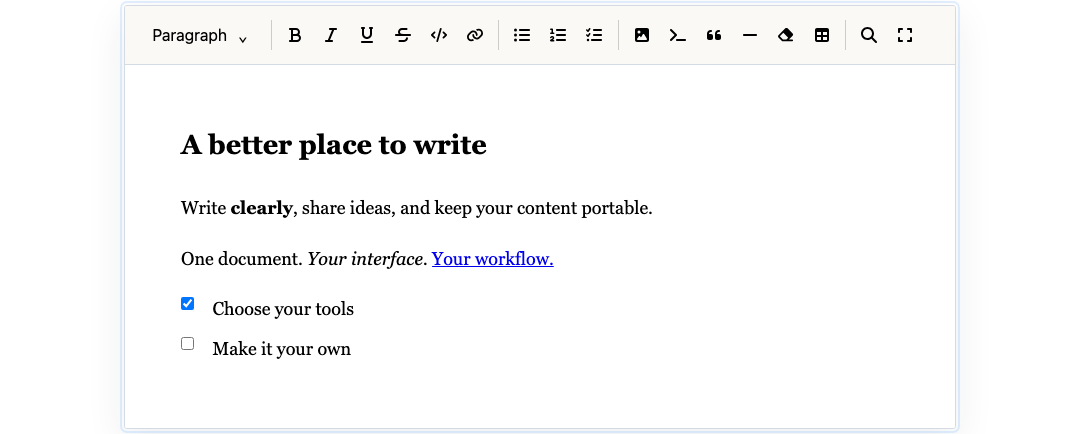
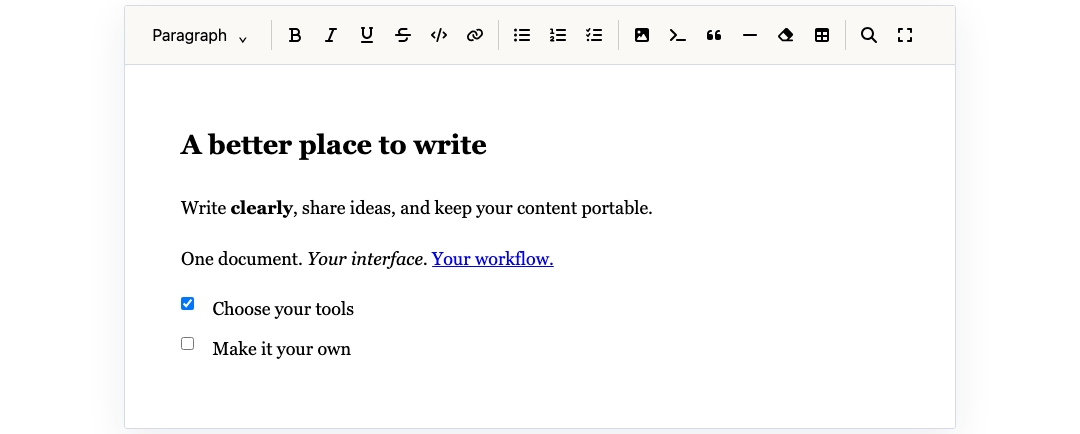
docs: record local showcase verification and final preset captures

Changed region(s): [[0.0917, 0.9885, 0.8861, 1.0], [0.1222, 0.0, 0.8861, 0.03]]

diff --git a/docs/verification/2026-09-16-editor-showcase.md b/docs/verification/2026-09-16-editor-showcase.md
@@ -1,0 +1,54 @@
+# Full local verification: editor shell, dropdowns and showcase
+
+All gates passed on source revision `9c08f48cde1c5d2cb4b176d7337cc0d9662cddc0`. The following evidence
+commit updates documentation, compatibility metadata and four final screenshots;
+it does not change runtime behavior or test configuration.
+
+Commands: `pnpm verify`, `node scripts/build-distribution.mjs`,
+`node scripts/capture-docs.mjs`, `pnpm test:browser` and `pnpm verify:distribution`.
+Everything ran locally. GitHub Actions remains disabled.
+
+| Gate | Result |
+| --- | --- |
+| Package policy, builds, TypeScript and Vue examples | Passed |
+| Unit tests | 406 passed across 66 files; four workers |
+| Full browser matrix | 330 passed, 66 per profile; zero failures/retries/skips |
+| Browser timing | Default 30s tests / 5s assertions; four workers; 263.8 seconds |
+| Distribution | 26 tarballs inspected; every export imported without a DOM; isolated TypeScript consumer passed |
+| Minimal bundle | 34,130 gzip bytes / 51,200 ceiling |
+| Standard bundle | 51,461 gzip bytes / 66,560 ceiling |
+| Optional highlighter | 1,702 minified bytes / 933 gzip bytes; separate import |
+| Gallery | 24 component-only captures, no browser script errors |
+
+Profiles: Chromium desktop, Firefox desktop, WebKit desktop, Pixel 7 Chromium
+emulation and iPhone 15 WebKit emulation. Installed browser versions remain
+Chromium 153.0.8010.12, Firefox 155.0 and WebKit 26.6.
+
+New browser coverage checks shared borders and distinct presets, showcase tool
+configuration, viewport-edge flipping, keyboard dropdown selection/dismissal,
+inline selection positioning and formatting, source-format access, modal focus
+mode and optional highlighting without export changes. Existing editing, source
+drafts, native forms, tables, custom buttons and Vue remount coverage also passed.
+Unit coverage includes safe highlighting, unknown/oversized language fallbacks,
+canonical export/history preservation and teardown.
+
+Visual review covered desktop/mobile showcase, three presets, contextual toolbar,
+code highlighting and dropdown captures. Preset screenshots omit focus outlines
+so their actual frame differences remain visible. Local Markdown file links and
+`git diff --check` passed.
+
+An earlier unit run exceeded startup/test timeouts under machine load. Unit
+parallelism is now bounded at four workers; no test/assertion timeouts were
+increased. The final full sequence above passed on that configuration.
+
+[Machine-readable summary](2026-09-16-editor-showcase.json) includes per-profile counts and the raw
+browser report SHA-256. Local logs: `/tmp/art-complete-*.log`; the replaceable,
+ignored raw report is `test-results/playwright-results.json`.
+
+## Limits and next work
+
+Inline mode is contextual formatting, not Notion-style block editing. Block
+controls/slash insertion are tracked in #74; additional formats/embeds in #75.
+Highlighting is a basic lexer, not a full grammar engine. Physical-device, real
+IME, screen-reader, broad RTL/reduced-motion, performance and public-release
+gates remain open; browser emulation does not replace those checks.

diff --git a/docs/editor-configuration.md b/docs/editor-configuration.md
@@ -6,6 +6,7 @@ Configure the Web Component itself; an attached `<a-rich-text-toolbar>` reads it
 configuration and updates when attributes change.
 
 ```html
+<a-rich-text-shell>
 <a-rich-text-toolbar for="body"></a-rich-text-toolbar>
 <a-rich-text
   id="body"
@@ -16,6 +17,7 @@ configuration and updates when attributes change.
   tools="paragraph heading bold italic underline code link bullet-list ordered-list task-list indent outdent insert-table add-row remove-row add-column remove-column undo redo"
   placeholder="Write something…"
 ></a-rich-text>
+</a-rich-text-shell>
 ```
 
 Import `@arichtext/editor` and call `enableStandardEditing(editor)` to enable the
@@ -197,6 +199,11 @@ connected and the browser must support native modal dialogs.
 
 ## Source editing and recovery
 
+Available formats appear in the toolbar’s **Document format** dropdown. The base
+component supplies the same dropdown when no standard toolbar is registered.
+`views` determines its options; a dirty draft disables switching until resolved.
+See [traditional/inline modes and the dropdown API](editor-modes.md).
+
 Switching views serializes the current canonical ART document and does not
 reimport it. Merely looking at Markdown/plain text therefore cannot strip marks
 or annotations. `format` stays independent of the active `view`.
@@ -239,7 +246,7 @@ Image insertion, editing and optional uploads are available through the
 packages but no bundled toolbar UI.
 Text alignment, font/color/highlight choices would require extending
 the current schema or defining extensions; hiding/showing toolbar tools does not
-add those capabilities. These are follow-up features, not advertised controls.
+add those capabilities. The [reference review and tracked follow-ups](editor-modes.md#reference-review-and-roadmap) detail these gaps and the planned block interaction mode.
 
 ## Automatic links
 

diff --git a/docs/editor-modes.md b/docs/editor-modes.md
@@ -89,6 +89,9 @@ Reviewed 2026-09-16 against the official documentation:
   move/duplicate/delete menus and drag reordering are **not implemented**. ART JSON
   is our schema; it is not interchangeable with Editor.js output JSON.
 
+Optional comments, suggestions and AI packages already exist, but do not have
+bundled toolbar controls; their remaining work stays under issues #9 and #10.
+
 Existing issues #4 (authoring) and #6 (extensions) were broad umbrellas; neither
 specified a complete Notion-style interaction mode. Dedicated follow-up tickets
 track block UX and additional formatting, linked below. These are planned work,

diff --git a/docs/remaining-work.md b/docs/remaining-work.md
@@ -39,8 +39,8 @@ separate Vue editing engine is unnecessary; the wrapper is optional.
 
 ## Production release gates
 
-The [latest full local run](verification/2026-09-16-table-authoring.md) passed 404 unit
-tests, all 305 browser cases without retries/skips, and 26 package installation
+The [latest full local run](verification/2026-09-16-editor-showcase.md) passed 406 unit
+tests, all 330 browser cases without retries/skips, and 26 package installation
 checks. This closes the accumulated automated-regression check at its recorded
 revision; the manual and release prerequisites below remain.
 

diff --git a/docs/quality.md b/docs/quality.md
@@ -2,8 +2,8 @@
 
 A Rich Text treats reliability evidence as part of the product.
 
-Latest [full local verification](verification/2026-09-16-table-authoring.md): 404 unit
-tests, 305 browser cases across five profiles with default timeouts and no
+Latest [full local verification](verification/2026-09-16-editor-showcase.md): 406 unit
+tests, 330 browser cases across five profiles with default timeouts and no
 retries/skips, and 26 package installation checks passed on the recorded revision.
 Manual and physical-device gates below remain open.
 
